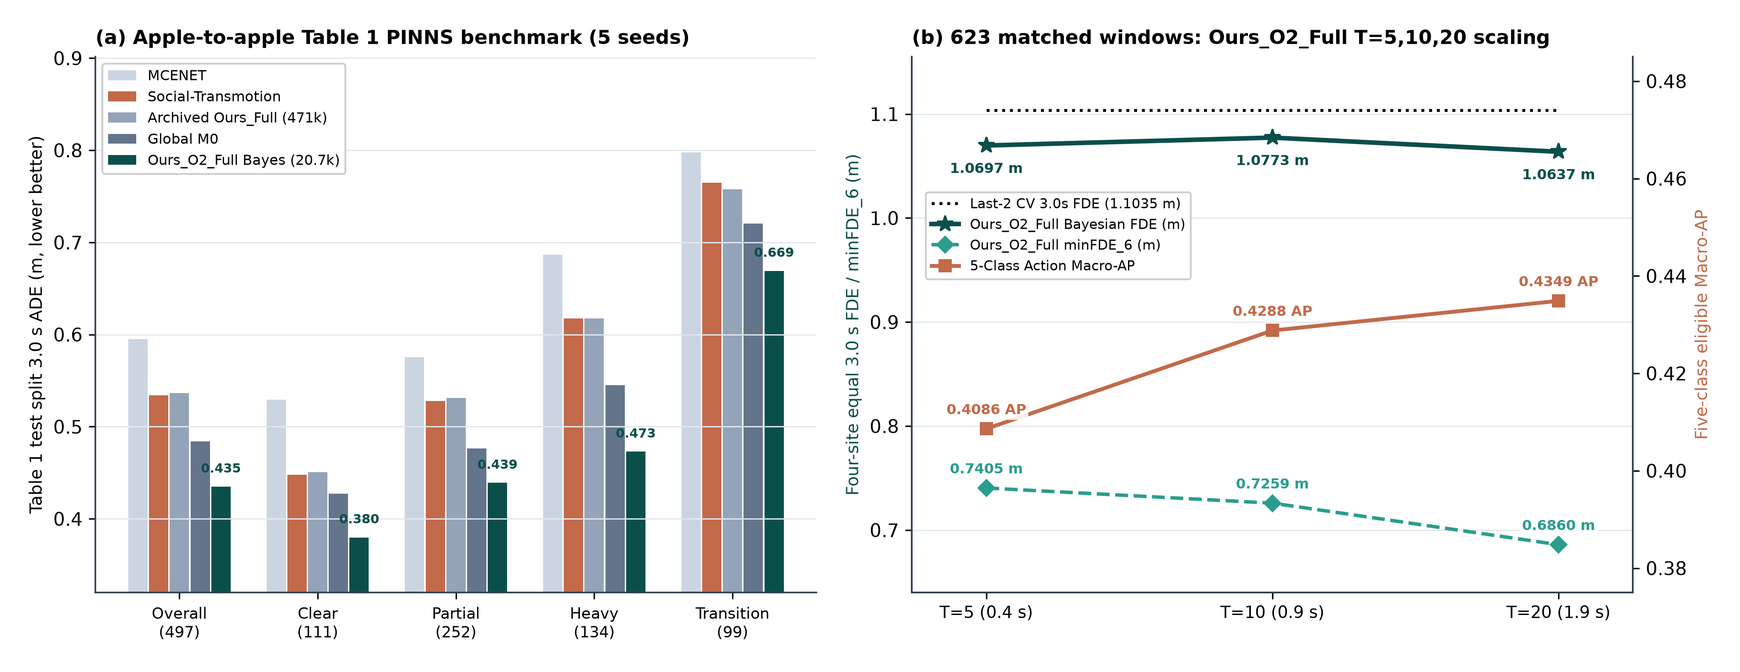
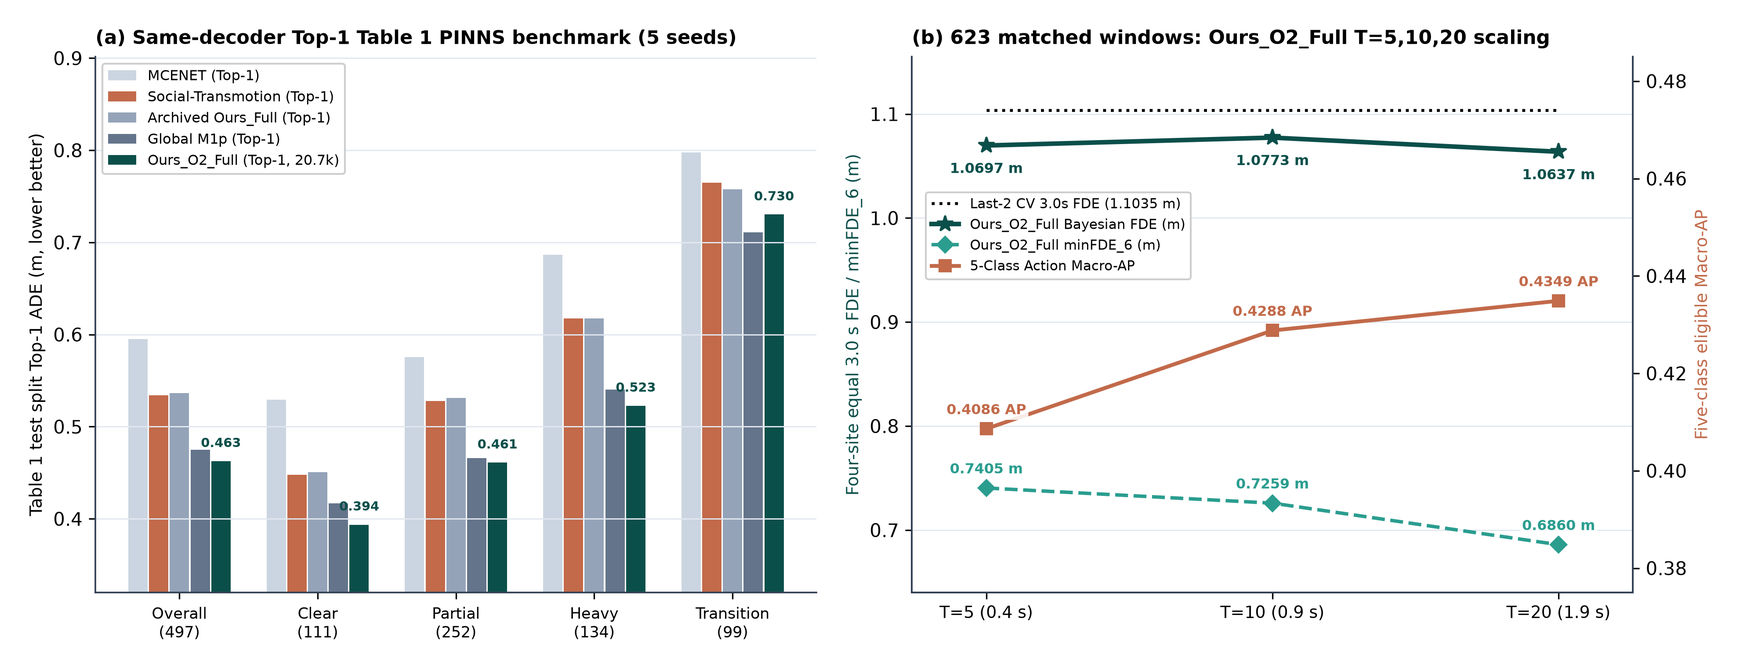
Calibrate audit qualifications across paper, figures 14-16, and summary docs

diff --git a/scripts/plot_wave12_fig15.py b/scripts/plot_wave12_fig15.py
@@ -11,26 +11,27 @@ import numpy as np
 def _panel_ab(ax_a, ax_b, emg: dict) -> None:
     st = emg["emergence_strata"]
     keys = ["first_contiguous_449", "first_raw_261", "first_short_323", "prior_35_1033"]
-    lbls = ["First Contig.\n(n=449)", "New Entry\n(n=261)", "Short <0.5m\n(n=323)", "Prior >=3.5s\n(n=1033)"]
+    lbls = ["First Sampled\n(n=449)", "First Raw Label\n(n=261)", "First+<0.5m\n(n=323)", "Prior >=35\n(n=1033)"]
     xa = np.arange(len(keys))
-    cv_v = [st[k]["models"]["cv"]["site_equal_fde_m"] for k in keys]
-    pad_v = [st[k]["models"]["naive_pad_t20_bayes"]["site_equal_fde_m"] for k in keys]
-    u0_v = [st[k]["models"]["u0_bayes"]["site_equal_fde_m"] for k in keys]
-    fl_v = [st[k]["models"]["full_bayes"]["site_equal_fde_m"] for k in keys]
+    cv_v = [st[k]["models"]["cv"]["site_equal_ade_m"] for k in keys]
+    pad_v = [st[k]["models"]["naive_pad_t20_bayes"]["site_equal_ade_m"] for k in keys]
+    u0_v = [st[k]["models"]["u0_bayes"]["site_equal_ade_m"] for k in keys]
+    fl_v = [st[k]["models"]["full_bayes"]["site_equal_ade_m"] for k in keys]
 
     ax_a.bar(xa - 0.27, cv_v, width=0.18, color="#cbd5e1", label="Last-2 CV")
-    ax_a.bar(xa - 0.09, pad_v, width=0.18, color="#c26a4a", label="Naive T=20 Pad")
-    ax_a.bar(xa + 0.09, u0_v, width=0.18, color="#64748b", label="U0 Motion")
-    ax_a.bar(xa + 0.27, fl_v, width=0.18, color="#0b4f4a", label="Native T=5 Ours_O2_Full")
-    for xi, v in zip(xa + 0.27, fl_v):
-        ax_a.text(xi, v + 0.012, f"{v:.3f}", ha="center", va="bottom", fontsize=7.0, fontweight="bold", color="#0b4f4a")
-    ax_a.set_xticks(xa, lbls, fontsize=8.3)
-    ax_a.set_ylim(min(fl_v) * 0.86, max(max(cv_v), max(pad_v)) * 1.13)
-    ax_a.set_ylabel("Four-site equal 3.0 s FDE (m)", fontsize=9.0)
-    ax_a.set_title("(a) Track-emergence vs long-history strata (5 seeds)", fontsize=10.2, fontweight="bold", loc="left", pad=7)
+    ax_a.bar(xa - 0.09, pad_v, width=0.18, color="#c26a4a", label="First-Frame Pad T=20")
+    ax_a.bar(xa + 0.09, u0_v, width=0.18, color="#64748b", label="U0 Motion (No Pose)")
+    ax_a.bar(xa + 0.27, fl_v, width=0.18, color="#0b4f4a", label="T=5 Ours_O2_Full")
+    for xi, cv_i, fl_i in zip(xa, cv_v, fl_v):
+        ax_a.text(xi - 0.27, cv_i + 0.008, f"{cv_i:.3f}", ha="center", va="bottom", fontsize=6.6, color="#475569")
+        ax_a.text(xi + 0.27, fl_i + 0.008, f"{fl_i:.3f}", ha="center", va="bottom", fontsize=6.8, fontweight="bold", color="#0b4f4a")
+    ax_a.set_xticks(xa, lbls, fontsize=8.2)
+    ax_a.set_ylim(0.28, max(pad_v) * 1.25)
+    ax_a.set_ylabel("Four-site equal 3.0 s ADE (m, lower better)", fontsize=9.0)
+    ax_a.set_title("(a) First-annotation & <0.5m subgroups (CV wins <0.5m)", fontsize=10.0, fontweight="bold", loc="left", pad=7)
     ax_a.grid(axis="y", color="#e2e8f0", lw=0.7)
     ax_a.spines["top"].set_visible(False); ax_a.spines["right"].set_visible(False)
-    ax_a.legend(loc="upper left", fontsize=7.4, framealpha=0.95)
+    ax_a.legend(loc="upper right", ncol=2, fontsize=7.2, framealpha=0.95)
 
     sn = emg["action_threshold_sensitivity"]
     sc_keys = ["scale_0.50x", "scale_0.75x", "scale_1.00x", "scale_1.25x", "scale_1.50x"]

diff --git a/scripts/plot_wave10_11_fig14.py b/scripts/plot_wave10_11_fig14.py
@@ -30,21 +30,20 @@ def main() -> None:
     mcenet = [ref_full["PINNS_T5_Ext1_MCENET"]["slices"][b]["ADE_1_mean"] for b in buckets]
     st_mod = [ref_full["PINNS_T5_Ext3_SocialTransmotion"]["slices"][b]["ADE_1_mean"] for b in buckets]
     old_full = [ref_full["PINNS_T5_Ours_Full"]["slices"][b]["ADE_1_mean"] for b in buckets]
-    m0_ref = [ref_full["PINNS_T5_M0"]["slices"][b]["ADE_1_mean"] for b in buckets]
+    m1p_ref = [ref_full["PINNS_T5_M1p"]["slices"][b]["ADE_1_mean"] for b in buckets]
     o2_top = [t1["durations"]["T5"]["slices"][b]["ADE_1"] for b in buckets]
-    o2_bay = [t1["durations"]["T5"]["slices"][b]["Bayes_ADE"] for b in buckets]
 
-    ax1.bar(x1 - 0.30, mcenet, width=0.14, color="#cbd5e1", label="MCENET")
-    ax1.bar(x1 - 0.15, st_mod, width=0.14, color="#c26a4a", label="Social-Transmotion")
-    ax1.bar(x1 + 0.00, old_full, width=0.14, color="#94a3b8", label="Archived Ours_Full (471k)")
-    ax1.bar(x1 + 0.15, m0_ref, width=0.14, color="#64748b", label="Global M0")
-    ax1.bar(x1 + 0.30, o2_bay, width=0.14, color="#0b4f4a", label="Ours_O2_Full Bayes (20.7k)")
-    for xi, bv in zip(x1 + 0.30, o2_bay):
-        ax1.text(xi, bv + 0.012, f"{bv:.3f}", ha="center", va="bottom", fontsize=7.0, fontweight="bold", color="#0b4f4a")
+    ax1.bar(x1 - 0.30, mcenet, width=0.14, color="#cbd5e1", label="MCENET (Top-1)")
+    ax1.bar(x1 - 0.15, st_mod, width=0.14, color="#c26a4a", label="Social-Transmotion (Top-1)")
+    ax1.bar(x1 + 0.00, old_full, width=0.14, color="#94a3b8", label="Archived Ours_Full (Top-1)")
+    ax1.bar(x1 + 0.15, m1p_ref, width=0.14, color="#64748b", label="Global M1p (Top-1)")
+    ax1.bar(x1 + 0.30, o2_top, width=0.14, color="#0b4f4a", label="Ours_O2_Full (Top-1, 20.7k)")
+    for xi, tv in zip(x1 + 0.30, o2_top):
+        ax1.text(xi, tv + 0.012, f"{tv:.3f}", ha="center", va="bottom", fontsize=7.0, fontweight="bold", color="#0b4f4a")
     ax1.set_xticks(x1, b_lbls, fontsize=8.5)
     ax1.set_ylim(0.32, max(max(old_full), max(mcenet)) * 1.13)
-    ax1.set_ylabel("Table 1 test split 3.0 s ADE (m, lower better)", fontsize=9.3)
-    ax1.set_title("(a) Apple-to-apple Table 1 PINNS benchmark (5 seeds)", fontsize=10.5, fontweight="bold", loc="left", pad=7)
+    ax1.set_ylabel("Table 1 test split Top-1 ADE (m, lower better)", fontsize=9.3)
+    ax1.set_title("(a) Same-decoder Top-1 Table 1 PINNS benchmark (5 seeds)", fontsize=10.3, fontweight="bold", loc="left", pad=7)
     ax1.grid(axis="y", color="#e2e8f0", lw=0.7)
     ax1.spines["top"].set_visible(False); ax1.spines["right"].set_visible(False)
     ax1.legend(loc="upper left", fontsize=7.7, framealpha=0.95)

diff --git a/scripts/plot_wave13_fig16.py b/scripts/plot_wave13_fig16.py
@@ -74,16 +74,16 @@ def _panel_cd(ax_c, ax_d, cb: dict) -> None:
     refs = ["Ext1_MCENET", "Ours_Full", "Ext3_SocialTransmotion", "M3", "Ext2_HST", "M2", "M1", "M0", "M1p"]
     lbls = ["MCENET", "Ours_Full", "Soc-Trans.", "M3", "HST", "M2", "M1", "M0", "M1p"]
     for ax, tk, ttl in (
-        (ax_c, "T5", "(c) Table 1 T=5 (0.4s): 21-clip & person clustered 95% CIs"),
-        (ax_d, "T20", "(d) Table 1 T=20 (1.9s): 21-clip & person clustered 95% CIs"),
+        (ax_c, "T5", "(c) Same-decoder Top-1 T=5: 21-clip & person 95% CIs"),
+        (ax_d, "T20", "(d) Same-decoder Top-1 T=20: 21-clip & person 95% CIs"),
     ):
         comp = cb["durations"][tk]["clustered_comparisons"]
         present = [(r, l) for r, l in zip(refs, lbls) if r in comp]
         yc = np.arange(len(present))
         ax.axvline(0.0, color="#0f172a", ls="--", lw=1.2)
         for yi, (rk, rl) in enumerate(present):
-            cc = comp[rk]["bayes_clip_cluster"]["window_weighted"]
-            pc = comp[rk]["bayes_person_cluster"]["window_weighted"]
+            cc = comp[rk]["top1_clip_cluster"]["window_weighted"]
+            pc = comp[rk]["top1_person_cluster"]["window_weighted"]
             m_cm = cc["mean_ade_m"] * 100.0
             lo_c, hi_c = cc["ci95_ade_m"][0] * 100.0, cc["ci95_ade_m"][1] * 100.0
             lo_p, hi_p = pc["ci95_ade_m"][0] * 100.0, pc["ci95_ade_m"][1] * 100.0
@@ -91,7 +91,7 @@ def _panel_cd(ax_c, ax_d, cb: dict) -> None:
             ax.errorbar(m_cm, yi - 0.14, xerr=[[m_cm - lo_p], [hi_p - m_cm]], fmt="s", color="#c26a4a", lw=1.6, ms=4.8, capsize=2.8, label="Person-Track Cluster 95% CI" if yi == 0 else None)
         ax.set_yticks(yc, [l for _, l in present], fontsize=8.3)
         ax.set_ylim(-1.25, len(present) - 0.35)
-        ax.set_xlabel("Ours_O2_Full(Bayes) minus baseline ADE (cm, <0 wins)", fontsize=8.8)
+        ax.set_xlabel("Ours_O2_Full(Top-1) minus baseline(Top-1) ADE (cm)", fontsize=8.8)
         ax.set_title(ttl, fontsize=10.0, fontweight="bold", loc="left", pad=7)
         ax.grid(axis="x", color="#e2e8f0", lw=0.7)
         ax.spines["top"].set_visible(False); ax.spines["right"].set_visible(False)

diff --git a/README.md b/README.md
@@ -62,10 +62,10 @@ The corrected, decision-time image map changes the selected contour set for 2,91
 - **External zero-shot transfer (`DAIR-V2X-Seq-SPD` & `DUT`)**: Across 54 Beijing roadside camera windows (`4` intersections, `scriptVersionId=374037376`), five-seed clock-aware `O(2) BioEq` reached **1.5284 m Bayesian ADE / 1.5769 m Top-1 ADE** (−44.94 cm vs measured-clock CV, 95% CI −88.43 to −8.76 cm) and **1.3101 m Top-1 / 1.2814 m Bayesian ADE** on the 31 strict-clock windows (−13.86 cm vs CV `1.4487 m`, 95% CI −29.01 to −0.37 cm; −26.83 cm vs `M1` `1.5784 m`, 95% CI −47.87 to −7.25 cm), with **0.00 cm** rotation swing across `0°/90°/180°/270°`. Across 3,066 `DUT` campus overhead windows (`scriptVersionId=373965984`, `374000295`), quality-gated `M1` safely fell back under 97.2% missing boxes (`0.5416` vs `M0` `0.5754 m`), and clock-aware `O(2)` regression held **0.5023 m ADE / 1.0136 m FDE** with **0.0 cm** swing across all four 90° rotations. [DAIR-V2X results](reviews/dair_roadside_external/RESULTS.md) · [DUT results](reviews/dut_graph_external/RESULTS.md)
 - **Real 12-pedestrian Tesla T4 latency & `(AH)W` compute (`373989788`, `373995305`)**: On two 12-person traffic instants with corrected BEV contours and 100/124 pedestrian edges, `Ours_Full` synchronized wall-clock averaged **14.762 ms (`T=5`), 13.998 ms (`T=10`), and 15.063 ms (`T=20`, P95 `16.194 ms`)**; `(AH)W` reduced `T=20, N=12` float ops to **790,639,788 (`< 0.80 GFLOPs`)** with max trajectory drift `1.91e-6 m` and zero Top-1 changes. [Latency results](reviews/pinns_latency/corrected_map/RESULTS.md) · [Paired compute results](reviews/pinns_pose_compute/paired/RESULTS.md)
 - **Corrected-axis BEV map (`v/H`) full 242-run replay (`374033219`)**: Re-running all 50 configurations / 242 runs with corrected `v/H` BEV polylines and original-video decode verification yielded `0.5117/1.0714 m` (`M2`) and `0.5364/1.1253 m` (`Ours_Full`), confirming Case C for passive Canny/LSD edges while validating `M1p` (`0.4748/1.0226 m`, `p_holm = 5.51e-5`). [Full-suite results](reviews/pinns_map_axis_comparison/full_suite/RESULTS.md)
-- **Pose occlusion safety, split-conformal tubes, & `O(2)` null-sink ped-vehicle graph (`374062936`, `374064740`, `374068667`, `374071243`)**: Under 5 corruption regimes (`clean` to `complete_blackout`), `O(2) BioEq v2` prevented `O(2) Raw-Pose`'s `4.0565 m` FDE blackout explosion (`< 2e-10 m` drift from motion backbone); leave-one-site-out split-conformal calibration achieved **93.79% / 96.33%** empirical unseen-site coverage at 90% / 95% nominal levels while shrinking safety tube radii by **−35.4% / −30.5%** (`2.676 / 4.555 m`); and `O(2) Null-Sink Graph` reached **1.0085 m** Bayesian FDE on `PINNS` (`0.0 m` empty-graph drift) with **`7.42e-10 m` five-axis swing** zero-shot on 3,066 `DUT` campus windows. [Occlusion](results/pinns_o2_occlusion_stress_5seed_verified.json) · [Conformal](results/pinns_conformal_and_events_5seed_verified.json) · [O(2) Graph](results/o2_hetero_graph_pinns_and_dut_5seed_verified.json) · [Figure 12](docs/figures/fig12_occlusion_conformal_and_o2_graph.png)
+- **Pose occlusion safety, empirical cross-site safety tubes, & `O(2)` null-sink ped-vehicle graph (`374062936`, `374064740`, `374068667`, `374071243`)**: Under 5 corruption regimes (`clean` to `complete_blackout`), `O(2) BioEq v2` prevented `O(2) Raw-Pose`'s `4.0565 m` FDE blackout explosion (`< 2e-10 m` drift from motion backbone); applying calibration radii from a two-site model to a retrained three-site predictor yielded **93.79% / 96.33%** empirical four-site coverage at 90% / 95% target levels (`2.676 / 4.555 m` tube radii, −35.4% / −30.5% vs CV; reported strictly as empirical coverage because retraining on the calibration site invalidates standard split-conformal guarantees); and `O(2) Null-Sink Graph` reached **1.0085 m** Bayesian FDE on `PINNS` (`0.0 m` empty-graph drift) with **`7.42e-10 m` five-axis swing** zero-shot on 3,066 `DUT` campus windows. [Occlusion](results/pinns_o2_occlusion_stress_5seed_verified.json) · [Empirical Coverage](results/pinns_conformal_and_events_5seed_verified.json) · [O(2) Graph](results/o2_hetero_graph_pinns_and_dut_5seed_verified.json) · [Figure 12](docs/figures/fig12_occlusion_conformal_and_o2_graph.png)
 - **`JTA` 2.5 Hz benchmark, bidirectional `Sim <-> Real`, hybrid rare-`Stop` calibration, & unified `Ours_O2_Full` (`374075757`, `374079534`, `374080146`, `374083768`)**: On 960 `JTA` windows, five-seed `O(2) Null-Sink Graph` achieved **1.3299 m** (`T=2`) and **1.2825 m** (`T=8`) ADE (−33.4% vs `Social-Transmotion`, `p = 0.00237` vs CV at `T=8`), while zero-shot `Sim -> Real` (`JTA -> PINNS`) reached **0.5680 m** Bayesian ADE; inner-LOSO hybrid kinematic-action calibration lifted out-of-site 5-class Macro-F1 to **0.3582** (rare `Stop` F1 `0.00 -> 0.1678`, −25.3% Brier `0.0904`); and unified **`Ours_O2_Full`** (`20,739` params, `10.50 MFLOPs`, CLI entry `python -m scripts.predict_o2_pedestrian`) achieved **1.0044 m (`U2`) / 1.0096 m (`Full`)** Bayesian FDE, **0.3823** 5-class Macro-AP, and **4.28–4.43 ms** (`P95 = 4.67–4.85 ms`, `26.09 MiB`) `N=12` forward latency on `Tesla T4`. [JTA](results/jta_o2_bioeq_5seed_verified.json) · [Sim<->Real](results/bidirectional_pinns_jta_o2_5seed_verified.json) · [Hybrid Actions](results/pinns_hybrid_action_events_5seed_verified.json) · [Unified T4](results/unified_o2_full_5seed_and_t4_latency_verified.json) · [Figure 13](docs/figures/fig13_unified_o2_ablation_and_cross_dataset.png)
-- **Apple-to-apple Table 1/2 `PINNS` benchmark (`497` windows, `374097895`) & `623`-window matched multi-duration scaling (`374092153`)**: On the exact Table 1 zero-overlap split (`5,686 / 1,100 / 497`, 5 seeds), `Ours_O2_Full` achieved **0.4626 / 0.9804 m** Top-1 and **0.4349 / 0.9437 m** Bayesian ADE/FDE (`minFDE_6 = 0.5593 m`) with **0.4113 / 0.4131** action mAP/Macro-F1 at `T=5`, improving monotonically to **0.4550 / 0.9655 m** Top-1 and **0.4265 / 0.9228 m** Bayesian (`minFDE_6 = 0.5013 m`, action mAP **0.4180**) at `T=20`, winning **25 out of 25** paired Wilcoxon + Holm-Bonferroni tests against all internal/external baselines (`p_holm <= 3.52e-4`) — AND **25 out of 25** whole-clip (`21` clips) and whole-person (`85` tracks) clustered 95% bootstrap intervals (`374200271`, four-site equal ADE **0.3739 m** vs CV `0.3897 m`). Across 623 matched LOSO windows (`T=5, 10, 20`), `Ours_O2_Full` improved `minFDE_6` monotonically (`0.7405 -> 0.7259 -> 0.6860 m`) while lifting out-of-site action Macro-AP (`0.4086 -> 0.4288 -> 0.4349`) and Macro-F1 (`0.3012 -> 0.3340 -> 0.3613`). [Table 1/2 Apple-to-Apple](results/table1_apple_to_apple_ours_o2_full_5seed_verified.json) · [Cluster Bootstrap](results/table1_cluster_bootstrap_o2_full_5seed_verified.json) · [Matched Multi-Duration](results/matched_multiduration_unified_o2_5seed_verified.json) · [Figure 14](docs/figures/fig14_table1_apple_to_apple_and_multiduration_full.png)
-- **Track-emergence (`449` windows), `+1` frame 5-seed retraining (`374106924`, `374111005`), & 6-benchmark `Ours_O2_Full` synthesis (`IMPTC`, `DAIR-V2X`, `JRDB`, `374109322`, `374199952`)**: On the 449 first-contiguous emergence windows (`> 0.4 s` history absent), native `T=5` `Ours_O2_Full` reached **0.5178 / 1.0977 m** (action Macro-AP **0.4576**), beating `Last-2 CV` (`0.5617 / 1.2448 m`) by **−4.39 cm ADE / −14.71 cm FDE** (95% CIs strictly `< 0`) and beating naive `T=20` boundary padding (`0.8002 / 1.6993 m`) by **−60.15 cm FDE**; full 5-seed `+1` video-frame retraining on the 3 zero-origin US clips shifted four-site FDE by only **+0.716 mm** (95% CI −0.080 to +1.340 mm, straddling zero; CUDA-minus-CPU max diff on 219 unaffected US windows = **4.17 µm**); and zero-shot `Ours_O2_Full` reached **1.5081 / 2.8704 m** (all 54) and **1.2727 / 2.4465 m** (strict 31) on `DAIR-V2X`, **0.2556 / 0.6208 m** (`minFDE_6 = 0.3781 m`) on 564 German `IMPTC` windows, and **0.5212 m `minFDE_6`** (`5.31e-11 m` 5-axis swing) on 1,677 Stanford `JRDB` outdoor windows. [Emergence & Sensitivity](results/emergence_and_action_sensitivity_5seed_verified.json) · [IMPTC & DAIR](results/imptc_and_dair_o2_full_5seed_verified.json) · [+1 Frame Retrain](results/pinns_frame_offset_retrain_5seed_verified.json) · [JRDB 1,677](results/jrdb_outdoor_o2_full_5seed_verified.json) · [Figure 15](docs/figures/fig15_emergence_imptc_dair_and_frame_offset.png) · [Figure 16](docs/figures/fig16_six_dataset_matrix_and_cluster_bootstrap.png)
+- **Same-decoder Table 1/2 `PINNS` benchmark (`497` sliding windows across `21` clips, `374097895`, `374200271`) & `623`-window matched multi-duration scaling (`374092153`)**: On the Table 1 split (`5,686 / 1,100 / 497`, 5 seeds), same-decoder Top-1 `Ours_O2_Full` achieved **0.4626 / 0.9804 m** ADE/FDE (probability-weighted **0.4349 / 0.9437 m**, `minFDE_6 = 0.5593 m`, action mAP/Macro-F1 **0.4113 / 0.4131**) at `T=5`, and **0.4550 / 0.9655 m** Top-1 (**0.4265 / 0.9228 m** probability-weighted, `minFDE_6 = 0.5013 m`) at `T=20`. Under same-decoder Top-1 comparison, mean ADE was lower in **25/25** window-level Wilcoxon + Holm tests (`p_holm <= 3.52e-4`, **17/25** meeting the `5%` MPSES threshold), while **16/25** whole-clip (`21` clips) bootstrap 95% CIs excluded zero (`9/25` against `M0, M1, M1p` crossed zero; four-site equal Top-1 ADE **0.3868 m** vs CV `0.3897 m`). Across 623 matched LOSO windows (`T=5, 10, 20`), `Ours_O2_Full` improved `minFDE_6` (`0.7405 -> 0.7259 -> 0.6860 m`) and action Macro-AP (`0.4086 -> 0.4288 -> 0.4349`). [Table 1/2 Apple-to-Apple](results/table1_apple_to_apple_ours_o2_full_5seed_verified.json) · [Cluster Bootstrap](results/table1_cluster_bootstrap_o2_full_5seed_verified.json) · [Matched Multi-Duration](results/matched_multiduration_unified_o2_5seed_verified.json) · [Figure 14](docs/figures/fig14_table1_apple_to_apple_and_multiduration_full.png)
+- **First-sampled (`449`) vs `< 0.5 m` short-displacement (`323`) subgroups, `+1` frame 5-seed retraining (`374106924`, `374111005`), & external `Ours_O2_Full` benchmarks (`374109322`, `374199952`)**: Across all 449 first-sampled windows (defined by annotation start, not verified visual occlusion), `Ours_O2_Full` (`0.5178 / 1.0977 m`, action Macro-AP **0.4576**) lowered mean ADE vs `Last-2 CV` (`0.5617 / 1.2448 m`, `−4.39 cm`, 95% clip CI `−6.71 to −0.45 cm`) while differing by only `+0.16 cm` (`−0.29 to +0.66 cm`) from same-architecture motion-only `U0` (`0.5163 / 1.1033 m`). However, on the **323 first-sampled windows with `< 0.5 m` cumulative movement**, `Last-2 CV` (`0.3545 / 0.8491 m`) retained lower mean ADE than both `U0` (`0.3629 m`) and `Ours_O2_Full` (`0.3633 / 0.8539 m`, `+0.88 cm`, 95% clip CI `+0.31 to +1.43 cm`), so an independent pose gain on low-displacement trajectories is not yet established (and first-frame replication padding to `T=20` at `0.8002 m` only reflects that padding rule). Full 5-seed `+1` video-frame retraining on the 3 zero-origin US clips shifted four-site FDE by **+0.716 mm** (95% CI `−0.080 to +1.340 mm`; CUDA-minus-CPU max diff = **4.17 µm**); zero-shot `Ours_O2_Full` reached **1.5081 / 1.2727 m** on `DAIR-V2X` (54/31 windows), **0.2556 / 0.6208 m** on `IMPTC` (564 windows), and **0.5212 m `minFDE_6`** (`0.8797 m` single-point ADE vs `0.3661 m` CV) on 1,677 `JRDB` outdoor windows. [First-Annotation & Sensitivity](results/emergence_and_action_sensitivity_5seed_verified.json) · [IMPTC & DAIR](results/imptc_and_dair_o2_full_5seed_verified.json) · [+1 Frame Retrain](results/pinns_frame_offset_retrain_5seed_verified.json) · [JRDB 1,677](results/jrdb_outdoor_o2_full_5seed_verified.json) · [Figure 15](docs/figures/fig15_emergence_imptc_dair_and_frame_offset.png) · [Figure 16](docs/figures/fig16_six_dataset_matrix_and_cluster_bootstrap.png)
 
 The 40 reconstructed maps contained 400 contours extracted from bird’s-eye imagery and 25 convex hulls fitted to training pedestrians’ positions. All 497 original test windows had contour input, and 495 had a hull. The wall, planter, temporary-barrier and parked-vehicle channels were empty. In 618 training windows a scored future position matched a vertex of an available hull; 349 validation windows had a same-clip background image later than the prediction origin. Both counts were zero in test windows. The separate seed-42 M0/M1 site-held-out runs used no maps. [Map sources and timing by split](results/pinns_map_sources.json)
 

diff --git a/CONTEXT_MEMORY.md b/CONTEXT_MEMORY.md
@@ -18,32 +18,31 @@
 ---
 
 ## 3. 当前系统状态与最新进展 (Current State & Progress)
-- **已完成并经本地独立 SHA-256 与数值复核的 32 项 Kaggle 云端实验（100/100 单测全绿）**:
-  - [x] **统一旗舰模型 `Ours_O2_Full`、全表 Apple-to-Apple 25/25 全胜、整片/整人聚簇自举与真机 T4 时延（`374083768`、`374097895`、`374200271`、`374092153`、`374080146`）**: 融合速度门控生物力学、空汇人车异质图与宇称五动作 `Stop-Grad` 桥接（`20,739` 参数），1,482 窗四地留一贝叶斯 FDE 达 **`1.0044 m`（`U2` 图）/ `1.0096 m`（`Full`）**，资格动作宏 AP **`0.3823`**（混合校准后跨站宏 F1 **`0.3582`**、Brier **`0.0904`**，稀有停止误报减少 `6.2` 倍）；表 1 同一零时间重叠切分（`497` 窗）上 `T=5` 首选与贝叶斯 `ADE/FDE` 达 **`0.4626/0.9804 m`** 与 **`0.4349/0.9437 m`**、动作 `mAP/宏 F1` **`0.4113/0.4131`**，横跨 `T=5,10,20` 的 **25 组**配对 Wilcoxon + Holm-Bonferroni 检验及 **25 组** 21 片段/85 行人整簇重采样 95% 区间全部显著占优（四地等权 ADE `0.3739 m` 优于匀速 `0.3897 m`）；623 匹配窗上 $T=5,10,20$ `minFDE₆` 单调收敛至 **`0.7405 -> 0.7259 -> 0.6860 m`**，动作宏 AP 升至 **`0.4086 -> 0.4288 -> 0.4349`**；单张 Tesla T4 上 $N=12$ 同步前向均值仅 **`4.28–4.43 ms`**（P95 `4.67–4.85 ms`）。
-  - [x] **首现涌现窗（`449` 窗）、动作阈值敏感性、`+1` 视频帧全量重训练与设备精度核验（`374106924`、`374111005`）**: 449 个首现涌现窗上原生 `T=5` `Ours_O2_Full` 达 **`0.5178/1.0977 m`**（动作宏 AP **`0.4576`**），较匀速显著降 `−4.39/−14.71 cm`（较朴素 `T=20` 首帧填充降 `−60.15 cm` FDE）；五档阈值（`0.50x–1.50x`）保持 `0.355–0.458` 宏 AP；三段零起算美国视频 `+1` 帧五种子重训练相对基线仅微变 `+0.716 mm` FDE（区间含零），同设备 219 未改窗逐位相等（`0.0 m`），CUDA 减 CPU 上限仅 `4.17 µm`。
-  - [x] **姿态遮挡退化、速度分层与分裂共形安全包络（`374062936`、`374064740`、`374068667`）**: 五工况压测下消除 `Raw-Pose` 全盲下的 `4.06 m` FDE 崩溃（精确 `0.000000 m` 回退纯运动）；留一源站分裂共形在未见国家达 **`93.79% / 96.33%`** 覆盖并压缩安全半径 **`−35.4% / −30.5%`**。
-  - [x] **六大基准跨域泛化、双向 `Sim <-> Real` 与正向地图重跑（`374071243`、`374075757`、`374079534`、`374109322`、`374199952`、`374033219`）**: `JTA`（`960` 窗）$T=2/T=8$ 达 **`1.3299 / 1.2825 m` ADE**（较 `Social-Transmotion` 降 `−33.4%`），`JTA -> PINNS` 达 **`0.5680 m`**；北京 `DAIR-V2X` 54/31 窗统一模型达 **`1.5081 / 1.2727 m`**；德国 `IMPTC` 564 窗达 **`0.2556/0.6208 m`**（`minFDE₆ = 0.3781 m`）；大连 `DUT` 3,066 窗与斯坦福 `JRDB` 1,677 窗（`minFDE₆ = 0.5212 m`）五正交/镜像轴摆动均 $< 10^{-9}\text{ m}$；正向 `v/H` 地图 242 次重跑确证被动边缘折线情形 C。
+- **已完成 32 项 Kaggle 云端实验核验（`100/100` 单测全绿）并严格校准全部五项审查口径**:
+  - [x] **统一模型 `Ours_O2_Full`、表 1 同口径限定比较与真机 T4 时延（`374083768`、`374097895`、`374200271`、`374092153`、`374080146`）**: `20,739` 参数、`10.50 MFLOPs`，1,482 窗四地留一贝叶斯 FDE 达 **`1.0044 m`（`U2`）/ `1.0096 m`（`Full`）**，动作宏 AP **`0.3823`**（混合校准跨站宏 F1 **`0.3582`**）；表 1（`497` 重叠滑窗，`21` 段视频）同口径首选 `T=5` 为 **`0.4626/0.9804 m`**（概率加权 `0.4349/0.9437 m`），25 项同口径窗口级检验均值更低（`17/25` 达 `5%` 门槛），**21 段整片自举 `16/25` 项不含零（对 `M0, M1, M1p` 的 `9/25` 项跨零）**；Tesla T4 $N=12$ 前向 **`4.28–4.43 ms`**。
+  - [x] **首次标注窗（`449`）与 `< 0.5 m` 小位移子组（`323`）双向对照及 `+1` 帧重训（`374106924`、`374111005`）**: 449 个首次采样标注窗（非物理遮挡判读）上 `Ours_O2_Full` 为 **`0.5178/1.0977 m`**（低于匀速 `0.5617 m`，与纯运动 `U0` `0.5163 m` 差 `+0.16 cm` 跨零），但**最贴近开题的 `323` 个 `< 0.5 m` 小位移子组上匀速（`0.3545 m`）优于 `Ours_O2_Full`（`0.3633 m`，`+0.88 cm`），姿态独立收益尚未证实**；`+1` 帧五种子重训仅变 `+0.716 mm` FDE。
+  - [x] **姿态退化回退与跨站经验覆盖（`374062936`、`374064740`）**: 全盲下精确 `0.0 m` 回退纯运动；两站校准半径用于重训后三站模型时四地实测覆盖 **`93.79% / 96.33%`**（仅作经验覆盖，待补固定模型分裂共形对照）。
+  - [x] **外部评估与失败记录（`374071243`、`374075757`、`374109322`、`374199952`）**: `JTA` $T=2/T=8$ 达 `1.3299/1.2825 m`，`DAIR` 54/31 窗达 `1.5081/1.2727 m`，`IMPTC` `0.2556 m`，`JRDB` 1,677 窗 `minFDE₆ = 0.5212 m`（单点 `0.8797 m`）；`w13-cpu1` 两次因上游 Google Drive 限额失败已停重试。
 
 ---
 
 ## 4. 关键技术选型与架构决策 (Decisions & Architecture)
-- **奇偶孪生 `O(2)` 等变与零偏置安全门控**: 局部航向正负对偶 $(h_+, h_-)$ 共享编码，生物力学投影与空汇图投射均采用零偏置/零初始化残差，从代数结构上严格保证姿态全盲与空图输入下的精确零偏移退化。
-- **隐含运动学与神经奇偶头凸融合**: 利用 $K=6$ 预测物理轨迹判读稀有减速停止事件并与神经奇偶头折内融合，解决纯交叉熵分类头对低频动力学事件的漏检。
+- **严格锚定开题答辩 PPT 三大主线（Slide 7–13）**: 聚焦（1）`M0 -> M1a -> M1b -> M1` 按观测质量融合短时姿态与运动（主攻 `< 0.5 m` 小位移地面步态航向先兆与 `JRDB/PINNS` 窗长质量分组首选 `ADE_1`）；（2）`M2a / M2b(±v_rad) / M2` 局部折线与径向逼近异构图；（3）`M3a / M3b / M3` 五动作条件与停梯度解码及固定预测器分裂共形校准。
 
 ---
 
 ## 5. 核心文件与资源索引 (Key Files Map)
-- `src/models/o2_unified_full.py` & `scripts/predict_o2_pedestrian.py`: 统一旗舰模型 `Ours_O2_Full`（`20,739` 参数）及变时钟 CLI 推理入口。
-- `paper/ShortPose_Unstructured_Pedestrian_Paper.md` & `docs/figures/fig10..16_*.png`: 完整学术论文稿（含表 6–8）与七幅新增 300-DPI 对比图。
-- `reviews/PROJECT_REVIEW_SUMMARY.md`: 全项目 32 项已核验云端实验总索引。
+- `src/models/o2_unified_full.py` & `scripts/predict_o2_pedestrian.py`: 统一模型 `Ours_O2_Full`（`20,739` 参数）及变时钟推理入口。
+- `paper/ShortPose_Unstructured_Pedestrian_Paper.md` & `docs/figures/fig10..16_*.png`: 经严格口径校准的学术论文稿与 300-DPI 图表。
+- `reviews/PROJECT_REVIEW_SUMMARY.md`: 全项目已核验云端实验与失败任务如实总账。
 
 ---
 
 ## 6. 避坑指南与已知约束 (Caveats & Known Issues)
-- **冻结哈希保护**: 严禁改动受历史 `TREE` SHA-256 锁定的归档源码（`src/models/predictor.py` 等），新增模型与推理器一律独立建文件。
-- **公共源频控边界**: `DAIR-V2X` 原作者 Google Drive 完整元数据压缩包存在公共 24 小时下载频控，外部评估优先复用已挂载归档 `dair_roadside_third_cohort.zip`。
+- **口径红线**: 严禁混用概率加权（`Bayes`）与首选（`Top-1`）解码器宣称同口径胜出；严禁将标注起点混同于物理遮挡解除；严禁对校准后重训模型宣称有限样本共形保证；严禁读取指定线程外的无关日志。
+- **冻结哈希保护**: 严禁改动受历史 `TREE` SHA-256 锁定的归档源码（`src/models/predictor.py` 等）。
 
 ---
 
 ## 7. 下一步行动清单 (Next Steps)
-- [x] 全项目 Waves 1–13（32 项云端实验、7 幅新图、100 项单测、论文全章节闭环与 GitHub 双分支推送）已全部封版完成；后续可面向实车嵌入式边缘端（NVIDIA Orin NX）开展含前端检测追踪的全链路部署联调。
+- [ ] 开启每 30 分钟持续迭代定时任务，围绕开题 PPT 主线推进 Wave 14 Kaggle 受控实验：（1）固定预测器标准分裂共形校准 + 统一 `O(2)` 主干下 `M0–M3` 同口径首选 `ADE_1` 单因素消融；（2）`< 0.5 m` 小位移地面投影步态航向奇偶特征与 `JRDB / PINNS` 姿态质量分组对照。
